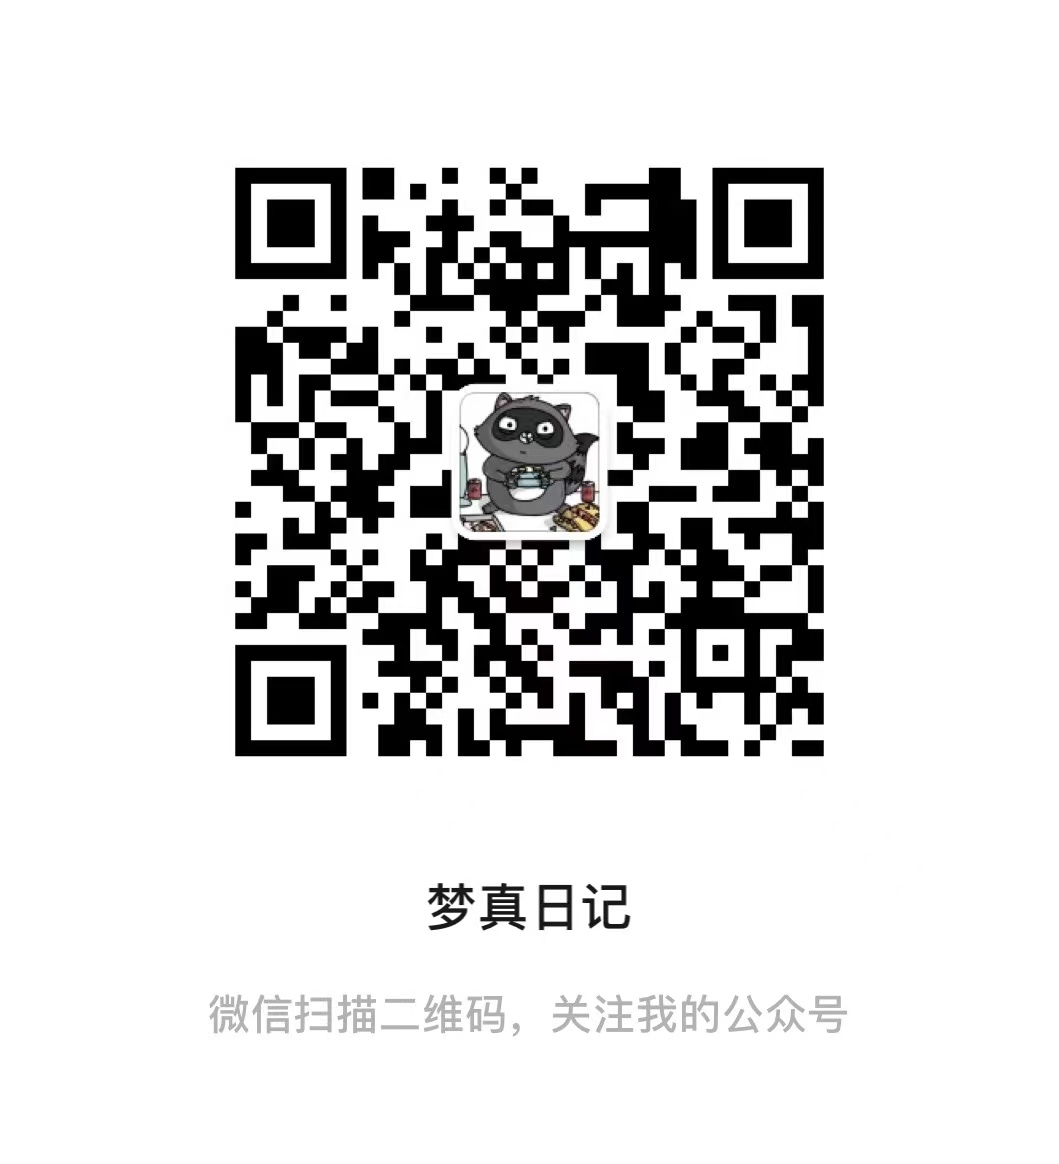
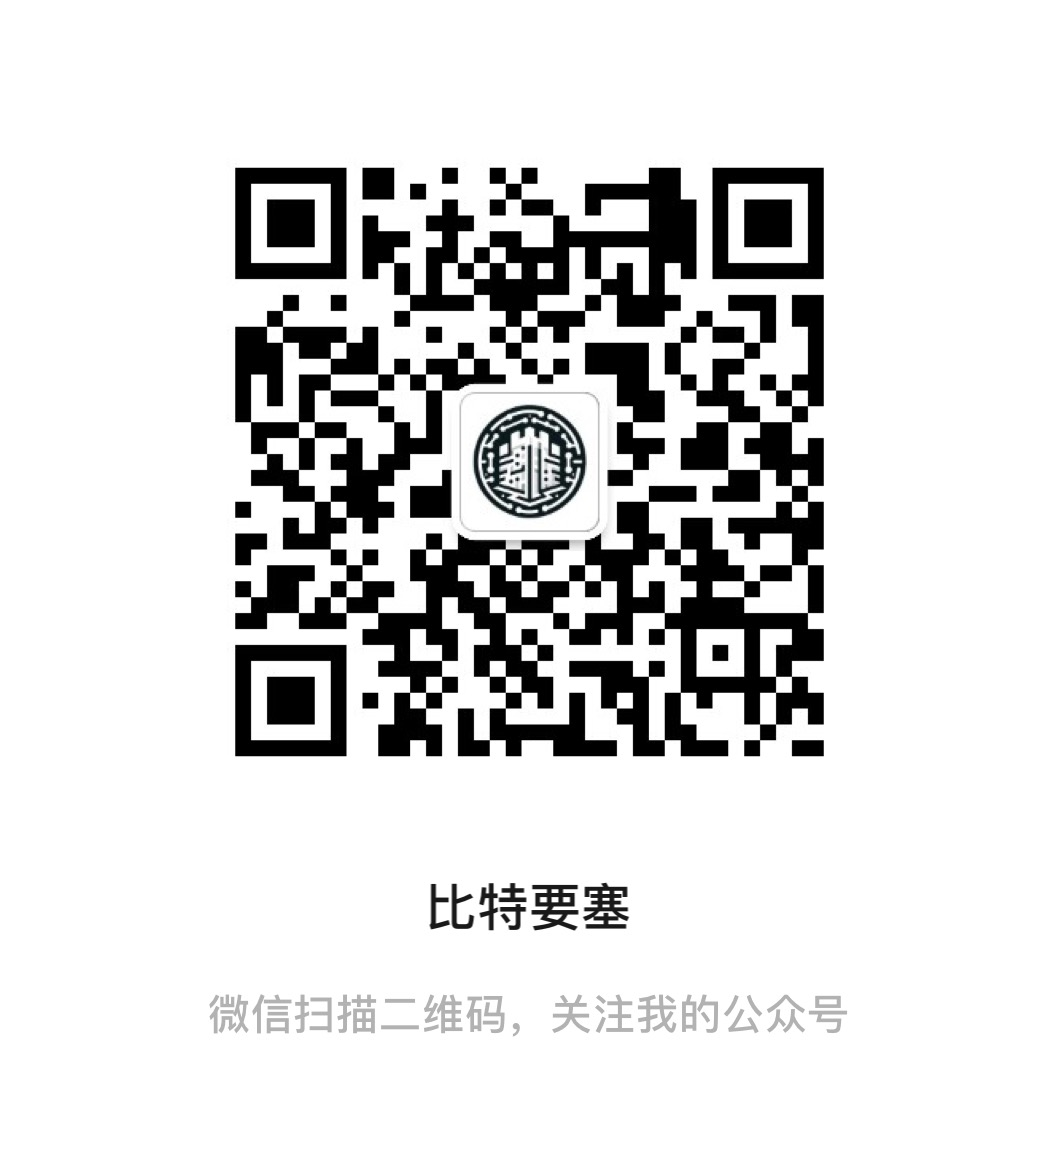
chore: update QRCode image

Changed region(s): [[0.4363, 0.3402, 0.5921, 0.4639], [0.4051, 0.7423, 0.5921, 0.8041]]

diff --git a/README.md b/README.md
@@ -4,6 +4,6 @@ protoc-gen-go-example
 使用go标准库`net/http`作为传输框架，从.proto文件生成框架代码。
 
 ## 关于
-文章首发于微信公众号**梦真日记**，欢迎关注。  
+文章首发于微信公众号**比特要塞**，欢迎关注。  
 
 <img src="qrcode.jpg" width="300">
